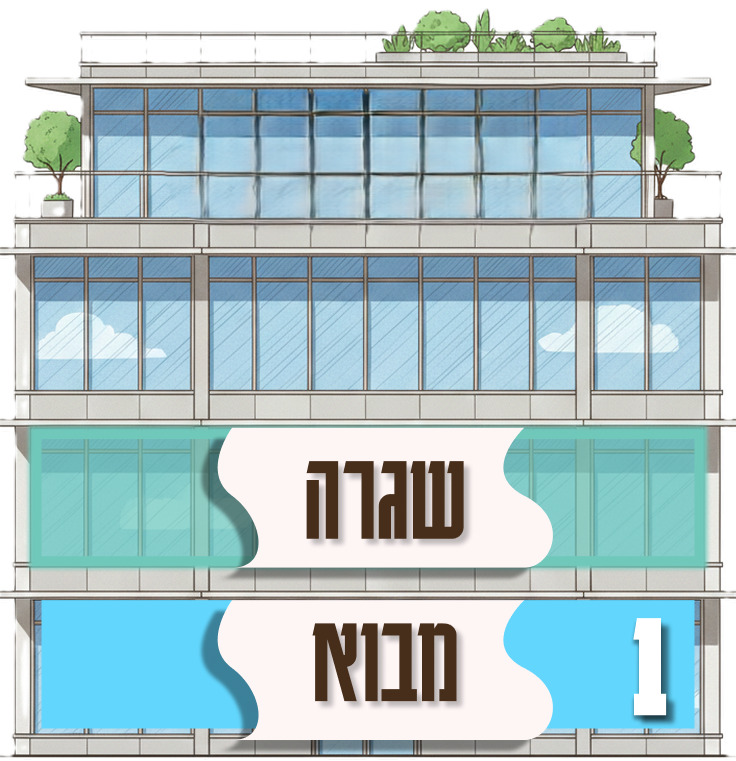
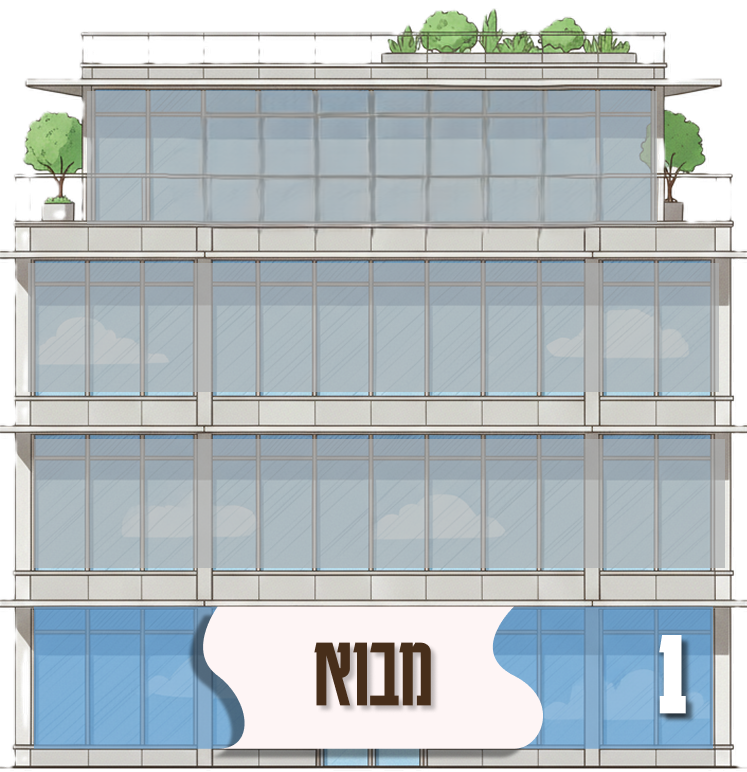
Updates

diff --git a/index.html b/index.html
@@ -1,1 +1,1 @@
-<!doctype html><html lang="en"><head><meta charset="utf-8"/><link rel="icon" href="/hagaa-lomda/favicon.ico"/><meta name="viewport" content="width=device-width,initial-scale=1"/><meta name="theme-color" content="#000000"/><meta name="description" content="המכללה הלאומית לאיתנות ישראלית"/><link rel="apple-touch-icon" href="/hagaa-lomda/logo192.png"/><link rel="manifest" href="/hagaa-lomda/manifest.json"/><title>לומדת הג"א</title><script defer="defer" src="/hagaa-lomda/static/js/main.aa6b9d8b.js"></script><link href="/hagaa-lomda/static/css/main.9290ba50.css" rel="stylesheet"></head><body><noscript>You need to enable JavaScript to run this app.</noscript><div id="root"></div></body></html>
+<!doctype html><html lang="en"><head><meta charset="utf-8"/><link rel="icon" href="/hagaa-lomda/favicon.ico"/><meta name="viewport" content="width=device-width,initial-scale=1"/><meta name="theme-color" content="#000000"/><meta name="description" content="המכללה הלאומית לאיתנות ישראלית"/><link rel="apple-touch-icon" href="/hagaa-lomda/logo192.png"/><link rel="manifest" href="/hagaa-lomda/manifest.json"/><title>לומדת הג"א</title><script defer="defer" src="/hagaa-lomda/static/js/main.b5a60635.js"></script><link href="/hagaa-lomda/static/css/main.ea8a34c0.css" rel="stylesheet"></head><body><noscript>You need to enable JavaScript to run this app.</noscript><div id="root"></div></body></html>